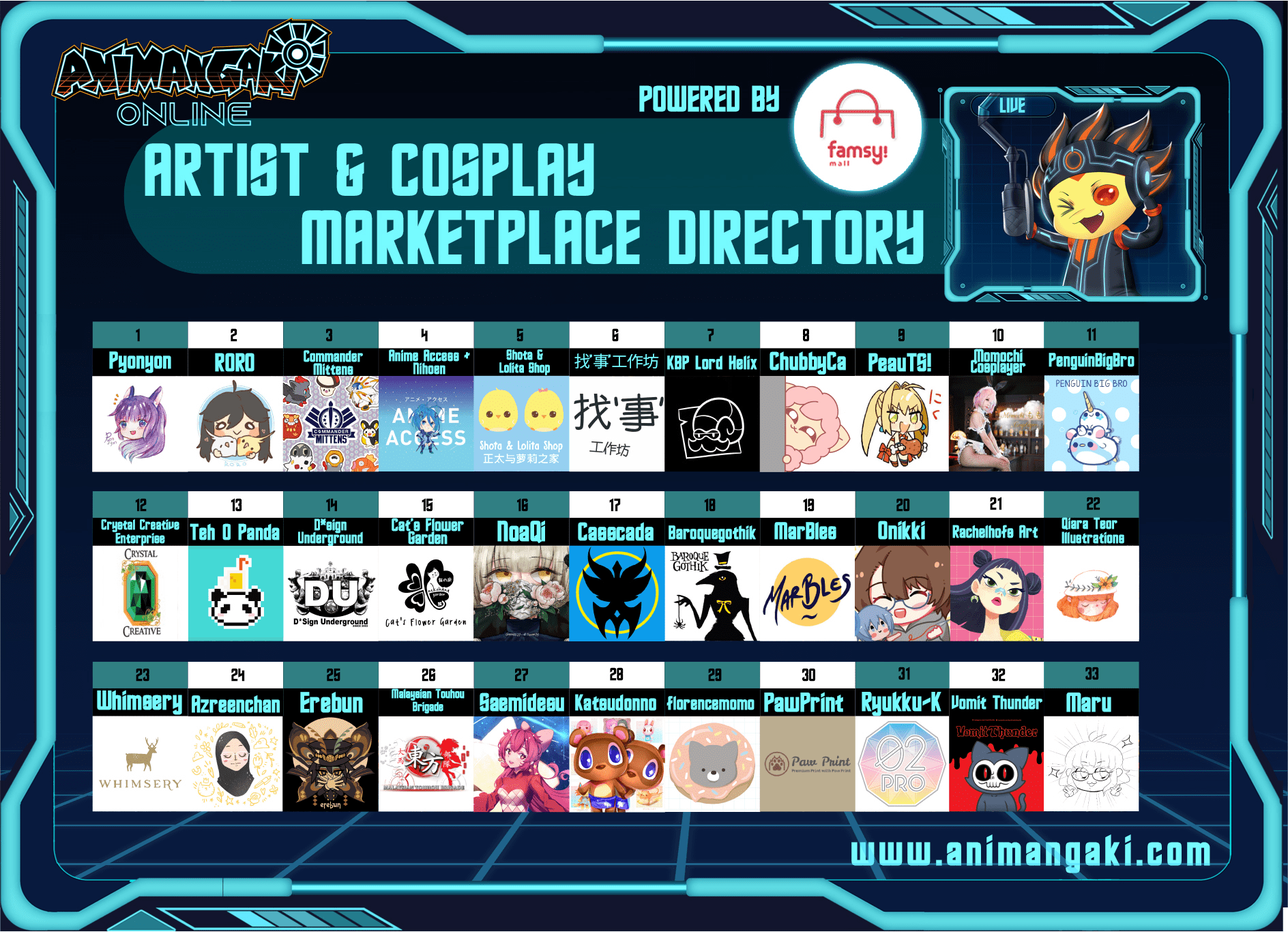
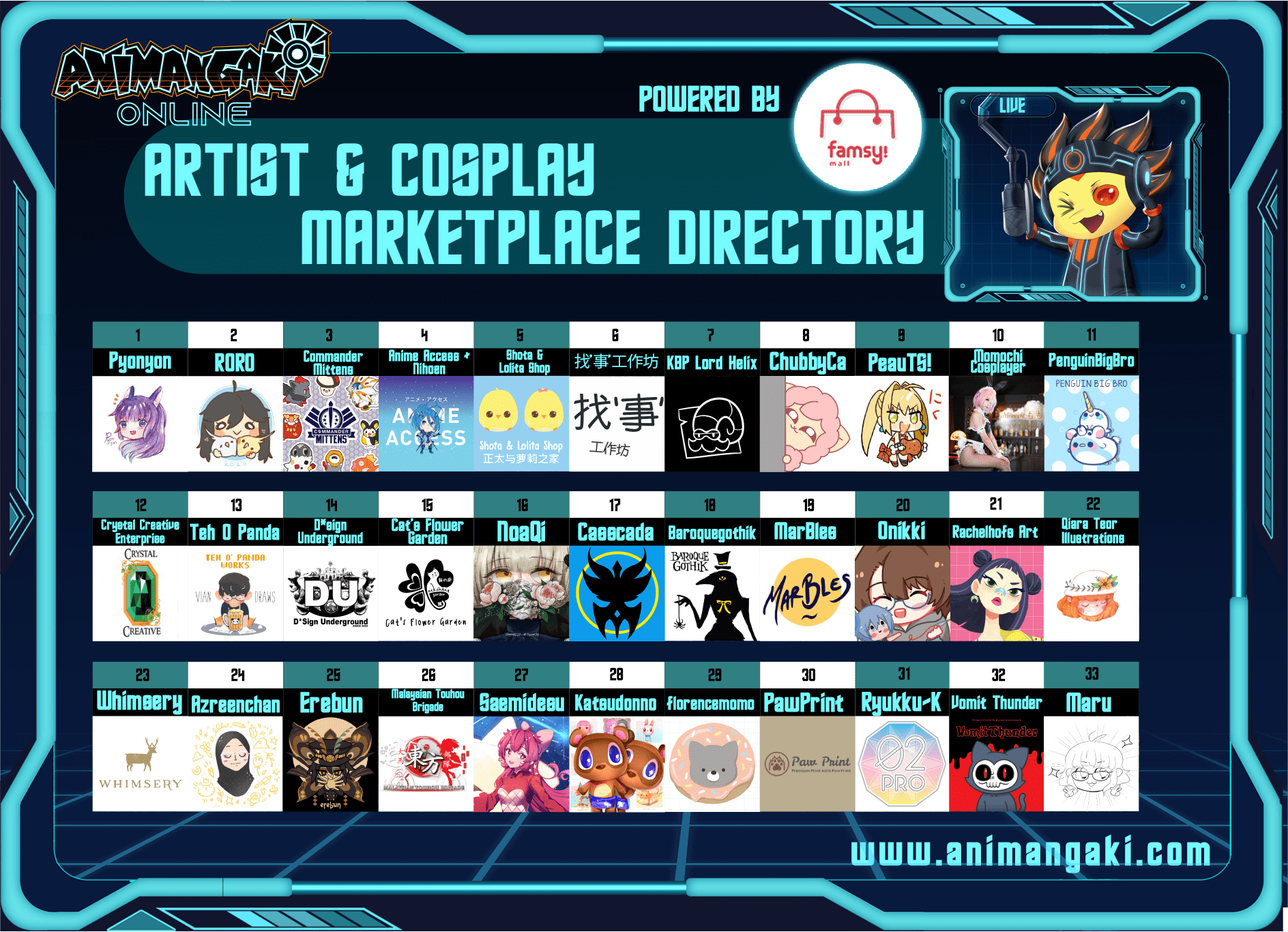
update AMGO2020 (add shop link & update booth changes);

Changed region(s): [[0.125, 0.5842, 0.2188, 0.7072]]

diff --git a/2020/AMGO2020.html b/2020/AMGO2020.html
@@ -362,75 +362,76 @@ setInterval(timer_main_stage, 1000);
 <img src='./AMGO2020/AMGO2020.png' style='width:auto; height:1080px;' onerror="this.src = './AMGO2020/AMGO2020.jpg'">
 <div id='coverbox' onclick='coverbox_click()' style='position: fixed; width: 100%; height: 100%; background-color: black; opacity: 0; top: 0px; left: 0px;'></div>
 <div class='booth' id='1' onclick='link_click(this)'><div class='desc' style='left:221px;top:571px;'><h2>1 Pyonyon</h2><ul>
-<li><a href='http://instagram.com/Pyonyon_' class='ins'></a><a href='http://pyonyon.deviantart.com' class='dar'></a><a href='http://pixiv.me/pyon_pi' class='pxv'></a><a href='http://fb.me/pyonyonyon' class='fbk'></a><a href='http://linktr.ee/pyonyon_' class='lkt'></a></li></ul></div><div class='area' style='display: none'>1 PYONYON</div><div class='box' style='left:114px;top:400px;width:105px;height:169px;'></div>
+<li><a href='http://instagram.com/Pyonyon_' class='ins'></a><a href='http://pyonyon.deviantart.com' class='dar'></a><a href='http://pixiv.me/pyon_pi' class='pxv'></a><a href='http://fb.me/pyonyonyon' class='fbk'></a><a href='http://linktr.ee/pyonyon_' class='lkt'></a></li><li><p><a href="https://www.famsymall.com/collections/all/pyonyon">Famsymall link</a></p></li><li></li></ul></div><div class='area' style='display: none'>1 PYONYON</div><div class='box' style='left:114px;top:400px;width:105px;height:169px;'></div>
 </div><div class='booth' id='2' onclick='link_click(this)'><div class='desc' style='left:332px;top:571px;'><h2>2 RORO</h2><ul>
-<li><a href='http://instagram.com/chutororo' class='ins'></a><a href='https://chutororo.tumblr.com' class='tmb'></a></li></ul></div><div class='area' style='display: none'>2 RORO</div><div class='box' style='left:224px;top:400px;width:106px;height:169px;'></div>
+<li><a href='http://instagram.com/chutororo' class='ins'></a><a href='https://chutororo.tumblr.com' class='tmb'></a></li><li><p><a href="https://www.famsymall.com/collections/all/roro">Famsymall link</a></p></li><li></li></ul></div><div class='area' style='display: none'>2 RORO</div><div class='box' style='left:224px;top:400px;width:106px;height:169px;'></div>
 </div><div class='booth' id='3' onclick='link_click(this)'><div class='desc' style='left:442px;top:571px;'><h2>3 Commander Mittens</h2><ul>
-<li></li><li><a href='https://milvagox.miraheze.org/wiki/Miaow'>Miaow</a></li><li><span class='chevron'>&gt;</span><a href='http://twitter.com/kyoupiruchi' class='twt'></a><a href='http://CommanderMittensCo.etsy.com' class='ets'></a><a href='http://fb.me/commandermitten' class='fbk'></a></li></ul></div><div class='area' style='display: none'>3 COMMANDER MITTENS</div><div class='box' style='left:335px;top:400px;width:105px;height:169px;'></div>
+<li></li><li><a href='https://milvagox.miraheze.org/wiki/Miaow'>Miaow</a></li><li><span class='chevron'>&gt;</span><a href='http://twitter.com/kyoupiruchi' class='twt'></a><a href='http://CommanderMittensCo.etsy.com' class='ets'></a><a href='http://fb.me/commandermitten' class='fbk'></a></li><li><p><a href="https://www.famsymall.com/collections/all/commander-mittens">Famsymall link</a></p></li><li></li></ul></div><div class='area' style='display: none'>3 COMMANDER MITTENS</div><div class='box' style='left:335px;top:400px;width:105px;height:169px;'></div>
 </div><div class='booth' id='4' onclick='link_click(this)'><div class='desc' style='left:553px;top:571px;'><h2>4 Anime Access + Nihoen</h2><ul>
-<li><a href='http://fb.me/animeaccess' class='fbk'></a></li></ul></div><div class='area' style='display: none'>4 ANIME ACCESS + NIHOEN</div><div class='box' style='left:445px;top:400px;width:106px;height:169px;'></div>
+<li><a href='http://fb.me/animeaccess' class='fbk'></a></li><li><p><a href="https://www.famsymall.com/collections/all/anime-access-nihoen">Famsymall link</a></p></li><li></li></ul></div><div class='area' style='display: none'>4 ANIME ACCESS + NIHOEN</div><div class='box' style='left:445px;top:400px;width:106px;height:169px;'></div>
 </div><div class='booth' id='5' onclick='link_click(this)'><div class='desc' style='left:663px;top:571px;'><h2>5 Shota &amp; Lolita Shop</h2><ul>
-<li></li><li><a href='https://milvagox.miraheze.org/wiki/Shota & Lolita Shop'>Shota & Lolita Shop</a></li><li><span class='chevron'>&gt;</span><a href='http://fb.me/shotalolitashop' class='fbk'></a><a href='http://instagram.com/shotaandlolitashop' class='ins'></a></li><li><a href='mailto://shotaandlolitashop@gmail.com'>email: shotaandlolitashop@gmail.com</a></li><li></li></ul></div><div class='area' style='display: none'>5 SHOTA &AMP; LOLITA SHOP</div><div class='box' style='left:556px;top:400px;width:105px;height:169px;'></div>
+<li></li><li><a href='https://milvagox.miraheze.org/wiki/Shota & Lolita Shop'>Shota & Lolita Shop</a></li><li><span class='chevron'>&gt;</span><a href='http://fb.me/shotalolitashop' class='fbk'></a><a href='http://instagram.com/shotaandlolitashop' class='ins'></a></li><li><a href='mailto://shotaandlolitashop@gmail.com'>email: shotaandlolitashop@gmail.com</a></li><li></li><li><p><a href="https://www.famsymall.com/collections/all/shota-&-lolita-shop">Famsymall link</a></p></li><li></li></ul></div><div class='area' style='display: none'>5 SHOTA &AMP; LOLITA SHOP</div><div class='box' style='left:556px;top:400px;width:105px;height:169px;'></div>
 </div><div class='booth' id='6' onclick='link_click(this)'><div class='desc' style='left:774px;top:571px;'><h2>6 找‘事’工作坊</h2><ul>
-<li><a href='http://fb.me/NZuoWDie' class='fbk'></a></li></ul></div><div class='area' style='display: none'>6 找‘事’工作坊</div><div class='box' style='left:666px;top:400px;width:106px;height:169px;'></div>
+<li><a href='http://fb.me/NZuoWDie' class='fbk'></a></li><li><p><a href="https://www.famsymall.com/collections/all/find-trouble-workshop">Famsymall link</a></p></li><li></li></ul></div><div class='area' style='display: none'>6 找‘事’工作坊</div><div class='box' style='left:666px;top:400px;width:106px;height:169px;'></div>
 </div><div class='booth' id='7' onclick='link_click(this)'><div class='desc' style='left:884px;top:571px;'><h2>7 KBP Lord Helix</h2><ul>
-<li><a href='http://fb.me/KBPLordHelix' class='fbk'></a></li></ul></div><div class='area' style='display: none'>7 KBP LORD HELIX</div><div class='box' style='left:777px;top:400px;width:105px;height:169px;'></div>
+<li><a href='http://fb.me/KBPLordHelix' class='fbk'></a></li><li><p><a href="https://www.famsymall.com/collections/all/kbp-lord-helix">Famsymall link</a></p></li><li></li></ul></div><div class='area' style='display: none'>7 KBP LORD HELIX</div><div class='box' style='left:777px;top:400px;width:105px;height:169px;'></div>
 </div><div class='booth' id='8' onclick='link_click(this)'><div class='desc' style='left:995px;top:571px;'><h2>8 ChubbyCa</h2><ul>
 <li><a href='http://instagram.com/6_chubbs' class='ins'></a></li><li><a href='http://stickers.cloud/pack/chubbyca-vol-1'>stickers.cloud/pack/chubbyca-vol-1</a></li><li>
-</li></ul></div><div class='area' style='display: none'>8 CHUBBYCA</div><div class='box' style='left:887px;top:400px;width:106px;height:169px;'></div>
+</li><li><p><a href="https://www.famsymall.com/collections/all/chubbyca">Famsymall link</a></p></li><li></li></ul></div><div class='area' style='display: none'>8 CHUBBYCA</div><div class='box' style='left:887px;top:400px;width:106px;height:169px;'></div>
 </div><div class='booth' id='9' onclick='link_click(this)'><div class='desc' style='left:1105px;top:571px;'><h2>9 PeauTS!</h2><ul>
-<li><a href='http://fb.me/KaiXinxNuts' class='fbk'></a><a href='http://instagram.com/xin.peanuts' class='ins'></a><a href='http://worldcosplay.net/member/XinPeanuts' class='wcp'></a></li></ul></div><div class='area' style='display: none'>9 PEAUTS!</div><div class='box' style='left:998px;top:400px;width:105px;height:169px;'></div>
-</div><div class='booth' id='10' onclick='link_click(this)'><div class='desc' style='left:1216px;top:571px;'><h2>10 Momochi Cosplayer</h2><a href='http://duckduckgo.com/?q=Momochi%20Cosplayer'>Search for Momochi Cosplayer</a></div><div class='area' style='display: none'>10 MOMOCHI COSPLAYER</div><div class='box' style='left:1108px;top:400px;width:106px;height:169px;'></div>
+<li><a href='http://fb.me/KaiXinxNuts' class='fbk'></a><a href='http://instagram.com/xin.peanuts' class='ins'></a><a href='http://worldcosplay.net/member/XinPeanuts' class='wcp'></a></li><li><p><a href="https://www.famsymall.com/collections/all/peauts">Famsymall link</a></p></li><li></li></ul></div><div class='area' style='display: none'>9 PEAUTS!</div><div class='box' style='left:998px;top:400px;width:105px;height:169px;'></div>
+</div><div class='booth' id='10' onclick='link_click(this)'><div class='desc' style='left:1216px;top:571px;'><h2>10 Momochi Cosplayer</h2><ul>
+<li><a href='http://fb.me/Kirarachi' class='fbk'></a></li><li><p><a href="https://www.famsymall.com/collections/all/momochi-cosplayer">Famsymall link</a></p></li><li></li></ul></div><div class='area' style='display: none'>10 MOMOCHI COSPLAYER</div><div class='box' style='left:1108px;top:400px;width:106px;height:169px;'></div>
 </div><div class='booth' id='11' onclick='link_click(this)'><div class='desc' style='left:1326px;top:571px;'><h2>11 PenguinBigBro</h2><ul>
 <li></li><li><a href='https://milvagox.miraheze.org/wiki/PenguinBigBro'>PenguinBigBro</a></li><li><span class='chevron'>&gt;</span><a href='http://twitter.com/PenguinBigBro' class='twt'></a><a href='http://instagram.com/penguinbigbro' class='ins'></a><a href='http://ko-fi.com/penguinbigbro' class='kof'></a><a href='http://etsy.com/shop/PenguinBigBro' class='ets'></a></li><li><a href='http://penguinbigbro.ctcin.bio'>penguinbigbro.ctcin.bio</a></li><li>
-</li></ul></div><div class='area' style='display: none'>11 PENGUINBIGBRO</div><div class='box' style='left:1219px;top:400px;width:105px;height:169px;'></div>
+</li><li><p><a href="https://www.famsymall.com/collections/all/penguinbigbro">Famsymall link</a></p></li><li></li></ul></div><div class='area' style='display: none'>11 PENGUINBIGBRO</div><div class='box' style='left:1219px;top:400px;width:105px;height:169px;'></div>
 </div><div class='booth' id='12' onclick='link_click(this)'><div class='desc' style='left:221px;top:767px;'><h2>12 Crystal Creative Enterprise</h2><ul>
-<li><a href='http://fb.me/crystalcreativeent' class='fbk'></a></li></ul></div><div class='area' style='display: none'>12 CRYSTAL CREATIVE ENTERPRISE</div><div class='box' style='left:114px;top:596px;width:105px;height:169px;'></div>
-</div><div class='booth' id='13' onclick='link_click(this)'><div class='desc' style='left:332px;top:767px;'><h2>13 Teh O Panda</h2><ul>
-<li><a href='http://instagram.com/tehopandaworks' class='ins'></a></li></ul></div><div class='area' style='display: none'>13 TEH O PANDA</div><div class='box' style='left:224px;top:596px;width:106px;height:169px;'></div>
+<li><a href='http://fb.me/crystalcreativeent' class='fbk'></a></li><li><p><a href="https://www.famsymall.com/collections/all/Crystal-Creative-Enterprise">Famsymall link</a></p></li><li></li></ul></div><div class='area' style='display: none'>12 CRYSTAL CREATIVE ENTERPRISE</div><div class='box' style='left:114px;top:596px;width:105px;height:169px;'></div>
+</div><div class='booth' id='13' onclick='link_click(this)'><div class='desc' style='left:332px;top:767px;'><h2>13 Teh O&#39; Panda Works x VianDraws</h2><ul>
+<li></li><li>Teh O' Panda</li><li><span class='chevron'>&gt;</span><a href='http://fb.me/tehopandaworks' class='fbk'></a><a href='http://instagram.com/tehopandaworks' class='ins'></a></li><li>VianDraws</li><li><span class='chevron'>&gt;</span><a href='http://twitter.com/Viandrawsstuff' class='twt'></a><a href='http://instagram.com/viannnndraws' class='ins'></a></li><li><p><a href="https://www.famsymall.com/collections/all/teh-o'-panda-works-x-viandraws">Famsymall link</a></p></li><li></li></ul></div><div class='area' style='display: none'>13 TEH O&#39; PANDA WORKS X VIANDRAWS</div><div class='box' style='left:224px;top:596px;width:106px;height:169px;'></div>
 </div><div class='booth' id='14' onclick='link_click(this)'><div class='desc' style='left:442px;top:767px;'><h2>14 D*sign Underground</h2><ul>
-<li><a href='http://fb.me/dsignunderground' class='fbk'></a></li></ul></div><div class='area' style='display: none'>14 D*SIGN UNDERGROUND</div><div class='box' style='left:335px;top:596px;width:105px;height:169px;'></div>
+<li><a href='http://fb.me/dsignunderground' class='fbk'></a></li><li><p><a href="https://www.famsymall.com/collections/all/D*sign-Underground">Famsymall link</a></p></li><li></li></ul></div><div class='area' style='display: none'>14 D*SIGN UNDERGROUND</div><div class='box' style='left:335px;top:596px;width:105px;height:169px;'></div>
 </div><div class='booth' id='15' onclick='link_click(this)'><div class='desc' style='left:553px;top:767px;'><h2>15 Cat&#39;s Flower Garden</h2><ul>
-<li><a href='http://fb.me/catsflowergarden' class='fbk'></a></li></ul></div><div class='area' style='display: none'>15 CAT&#39;S FLOWER GARDEN</div><div class='box' style='left:445px;top:596px;width:106px;height:169px;'></div>
+<li><a href='http://fb.me/catsflowergarden' class='fbk'></a></li><li><p><a href="https://www.famsymall.com/collections/all/Cat's-Flower-Garden">Famsymall link</a></p></li><li></li></ul></div><div class='area' style='display: none'>15 CAT&#39;S FLOWER GARDEN</div><div class='box' style='left:445px;top:596px;width:106px;height:169px;'></div>
 </div><div class='booth' id='16' onclick='link_click(this)'><div class='desc' style='left:663px;top:767px;'><h2>16 NoaQi</h2><ul>
-<li><a href='http://instagram.com/noaqi77' class='ins'></a></li></ul></div><div class='area' style='display: none'>16 NOAQI</div><div class='box' style='left:556px;top:596px;width:105px;height:169px;'></div>
+<li><a href='http://instagram.com/noaqi77' class='ins'></a></li><li><p><a href="https://www.famsymall.com/collections/all/NoaQi">Famsymall link</a></p></li><li></li></ul></div><div class='area' style='display: none'>16 NOAQI</div><div class='box' style='left:556px;top:596px;width:105px;height:169px;'></div>
 </div><div class='booth' id='17' onclick='link_click(this)'><div class='desc' style='left:774px;top:767px;'><h2>17 Casscada</h2><ul>
-<li><a href='https://kisetsukaze.tumblr.com' class='tmb'></a><a href='http://fb.me/ArtOfKisetsukaze' class='fbk'></a></li></ul></div><div class='area' style='display: none'>17 CASSCADA</div><div class='box' style='left:666px;top:596px;width:106px;height:169px;'></div>
+<li><a href='https://kisetsukaze.tumblr.com' class='tmb'></a><a href='http://fb.me/ArtOfKisetsukaze' class='fbk'></a></li><li><p><a href="https://www.famsymall.com/collections/all/Casscada">Famsymall link</a></p></li><li></li></ul></div><div class='area' style='display: none'>17 CASSCADA</div><div class='box' style='left:666px;top:596px;width:106px;height:169px;'></div>
 </div><div class='booth' id='18' onclick='link_click(this)'><div class='desc' style='left:884px;top:767px;'><h2>18 Baroquegothik</h2><ul>
-<li><a href='http://twitter.com/baroquegothik' class='twt'></a><a href='https://baroquegothik.tumblr.com' class='tmb'></a><a href='http://fb.me/baroquegothik' class='fbk'></a><a href='http://instagram.com/baroquegothik' class='ins'></a><a href='http://redbubble.com/people/baroquegothik' class='rbb'></a><a href='http://inprnt.com/gallery/baroquegothik' class='inp'></a></li></ul></div><div class='area' style='display: none'>18 BAROQUEGOTHIK</div><div class='box' style='left:777px;top:596px;width:105px;height:169px;'></div>
+<li><a href='http://twitter.com/baroquegothik' class='twt'></a><a href='https://baroquegothik.tumblr.com' class='tmb'></a><a href='http://fb.me/baroquegothik' class='fbk'></a><a href='http://instagram.com/baroquegothik' class='ins'></a><a href='http://redbubble.com/people/baroquegothik' class='rbb'></a><a href='http://inprnt.com/gallery/baroquegothik' class='inp'></a></li><li><p><a href="https://www.famsymall.com/collections/all/Baroquegothik">Famsymall link</a></p></li><li></li></ul></div><div class='area' style='display: none'>18 BAROQUEGOTHIK</div><div class='box' style='left:777px;top:596px;width:105px;height:169px;'></div>
 </div><div class='booth' id='19' onclick='link_click(this)'><div class='desc' style='left:995px;top:767px;'><h2>19 MarBles</h2><ul>
-<li></li><li>Marini4</li><li><span class='chevron'>&gt;</span><a href='http://instagram.com/marini4art' class='ins'></a><a href='http://marini4.deviantart.com' class='dar'></a><a href='https://bendybeforeinkmachine.tumblr.com' class='tmb'></a><a href='http://marini4.carrd.co' class='crd'></a><a href='http://etsy.com/shop/Marini4Art' class='ets'></a><a href='http://webtoons.com/en/challenge/bendy-before-the-ink-machine/list?title_no=188451' class='wtn'></a><a href='http://youtube.com/channel/UCZ3zoo9E-SWxq6dprtMerWg' class='ytb'></a><a href='http://patreon.com/marini4' class='ptr'></a><a href='http://linktr.ee/Marini4' class='lkt'></a></li><li>Zabbles</li><li><span class='chevron'>&gt;</span><a href='http://twitter.com/zabbles_art' class='twt'></a><a href='http://instagram.com/zabbles.art' class='ins'></a><a href='http://zee-zyp.deviantart.com' class='dar'></a><a href='https://zabblesart.tumblr.com' class='tmb'></a><a href='http://ko-fi.com/zabblesart' class='kof'></a><a href='http://pinterest.com/zabblesrefs' class='pts'></a><a href='http://fb.me/zabbles.art' class='fbk'></a><a href='http://linktr.ee/zabbles.art' class='lkt'></a></li></ul></div><div class='area' style='display: none'>19 MARBLES</div><div class='box' style='left:887px;top:596px;width:106px;height:169px;'></div>
+<li></li><li>Marini4</li><li><span class='chevron'>&gt;</span><a href='http://instagram.com/marini4art' class='ins'></a><a href='http://marini4.deviantart.com' class='dar'></a><a href='https://bendybeforeinkmachine.tumblr.com' class='tmb'></a><a href='http://marini4.carrd.co' class='crd'></a><a href='http://etsy.com/shop/Marini4Art' class='ets'></a><a href='http://webtoons.com/en/challenge/bendy-before-the-ink-machine/list?title_no=188451' class='wtn'></a><a href='http://youtube.com/channel/UCZ3zoo9E-SWxq6dprtMerWg' class='ytb'></a><a href='http://patreon.com/marini4' class='ptr'></a><a href='http://linktr.ee/Marini4' class='lkt'></a></li><li>Zabbles</li><li><span class='chevron'>&gt;</span><a href='http://twitter.com/zabbles_art' class='twt'></a><a href='http://instagram.com/zabbles.art' class='ins'></a><a href='http://zee-zyp.deviantart.com' class='dar'></a><a href='https://zabblesart.tumblr.com' class='tmb'></a><a href='http://ko-fi.com/zabblesart' class='kof'></a><a href='http://pinterest.com/zabblesrefs' class='pts'></a><a href='http://fb.me/zabbles.art' class='fbk'></a><a href='http://linktr.ee/zabbles.art' class='lkt'></a></li><li><p><a href="https://www.famsymall.com/collections/all/MarBles">Famsymall link</a></p></li><li></li></ul></div><div class='area' style='display: none'>19 MARBLES</div><div class='box' style='left:887px;top:596px;width:106px;height:169px;'></div>
 </div><div class='booth' id='20' onclick='link_click(this)'><div class='desc' style='left:1105px;top:767px;'><h2>20 onikki</h2><ul>
-<li></li><li>tyraryu.doll</li><li><span class='chevron'>&gt;</span><a href='http://instagram.com/TYRARYU.DOLL' class='ins'></a><a href='http://fb.me/tyraryu.doll' class='fbk'></a></li><li>rakugaqis</li><li><span class='chevron'>&gt;</span><a href='http://twitter.com/rakugaqis' class='twt'></a><a href='http://instagram.com/rakugaqis' class='ins'></a><a href='https://rakugaqis.tumblr.com' class='tmb'></a><a href='http://ko-fi.com/rakugaqis' class='kof'></a><a href='http://fb.me/rakugaqis' class='fbk'></a><a href='http://astralost.carrd.co' class='crd'></a></li><li>oishiicafe</li><li><span class='chevron'>&gt;</span></li></ul></div><div class='area' style='display: none'>20 ONIKKI</div><div class='box' style='left:998px;top:596px;width:105px;height:169px;'></div>
+<li></li><li>tyraryu.doll</li><li><span class='chevron'>&gt;</span><a href='http://instagram.com/TYRARYU.DOLL' class='ins'></a><a href='http://fb.me/tyraryu.doll' class='fbk'></a></li><li>rakugaqis</li><li><span class='chevron'>&gt;</span><a href='http://twitter.com/rakugaqis' class='twt'></a><a href='http://instagram.com/rakugaqis' class='ins'></a><a href='https://rakugaqis.tumblr.com' class='tmb'></a><a href='http://ko-fi.com/rakugaqis' class='kof'></a><a href='http://fb.me/rakugaqis' class='fbk'></a><a href='http://astralost.carrd.co' class='crd'></a></li><li>oishiicafe</li><li><span class='chevron'>&gt;</span></li><li><p><a href="https://www.famsymall.com/collections/all/onikki">Famsymall link</a></p></li><li></li></ul></div><div class='area' style='display: none'>20 ONIKKI</div><div class='box' style='left:998px;top:596px;width:105px;height:169px;'></div>
 </div><div class='booth' id='21' onclick='link_click(this)'><div class='desc' style='left:1216px;top:767px;'><h2>21 Rachelhofs Art</h2><ul>
-<li><a href='http://twitter.com/rachelhofs' class='twt'></a><a href='http://instagram.com/rachelhofs' class='ins'></a><a href='http://behance.net/rachelhofs' class='bhc'></a><a href='http://artstation.com/rachelhofs' class='ast'></a></li></ul></div><div class='area' style='display: none'>21 RACHELHOFS ART</div><div class='box' style='left:1108px;top:596px;width:106px;height:169px;'></div>
+<li><a href='http://twitter.com/rachelhofs' class='twt'></a><a href='http://instagram.com/rachelhofs' class='ins'></a><a href='http://behance.net/rachelhofs' class='bhc'></a><a href='http://artstation.com/rachelhofs' class='ast'></a></li><li><p><a href="https://www.famsymall.com/collections/all/Rachelhofs-Art">Famsymall link</a></p></li><li></li></ul></div><div class='area' style='display: none'>21 RACHELHOFS ART</div><div class='box' style='left:1108px;top:596px;width:106px;height:169px;'></div>
 </div><div class='booth' id='22' onclick='link_click(this)'><div class='desc' style='left:1326px;top:767px;'><h2>22 Qiara Teor Illustrations</h2><ul>
-<li></li><li><a href='https://milvagox.miraheze.org/wiki/Qiara Teor'>Qiara Teor</a></li><li><span class='chevron'>&gt;</span><a href='http://fb.me/qiarateor' class='fbk'></a><a href='http://instagram.com/qiarateor' class='ins'></a><a href='http://twitter.com/Qiara_T' class='twt'></a></li></ul></div><div class='area' style='display: none'>22 QIARA TEOR ILLUSTRATIONS</div><div class='box' style='left:1219px;top:596px;width:105px;height:169px;'></div>
+<li></li><li><a href='https://milvagox.miraheze.org/wiki/Qiara Teor'>Qiara Teor</a></li><li><span class='chevron'>&gt;</span><a href='http://fb.me/qiarateor' class='fbk'></a><a href='http://instagram.com/qiarateor' class='ins'></a><a href='http://twitter.com/Qiara_T' class='twt'></a></li><li><p><a href="https://www.famsymall.com/collections/all/Qiara-Teor-Illustrations">Famsymall link</a></p></li><li></li></ul></div><div class='area' style='display: none'>22 QIARA TEOR ILLUSTRATIONS</div><div class='box' style='left:1219px;top:596px;width:105px;height:169px;'></div>
 </div><div class='booth' id='23' onclick='link_click(this)'><div class='desc' style='left:221px;top:965px;'><h2>23 Whimsery</h2><ul>
-<li></li><li><a href='https://milvagox.miraheze.org/wiki/Whimsery'>Whimsery</a></li><li><span class='chevron'>&gt;</span><a href='http://instagram.com/Whimsery.Shop' class='ins'></a><a href='http://fb.me/whimsery' class='fbk'></a><a href='http://whimsery.etsy.com' class='ets'></a></li></ul></div><div class='area' style='display: none'>23 WHIMSERY</div><div class='box' style='left:114px;top:794px;width:105px;height:169px;'></div>
+<li></li><li><a href='https://milvagox.miraheze.org/wiki/Whimsery'>Whimsery</a></li><li><span class='chevron'>&gt;</span><a href='http://instagram.com/Whimsery.Shop' class='ins'></a><a href='http://fb.me/whimsery' class='fbk'></a><a href='http://whimsery.etsy.com' class='ets'></a></li><li><p><a href="https://www.famsymall.com/collections/all/Whimsery">Famsymall link</a></p></li><li></li></ul></div><div class='area' style='display: none'>23 WHIMSERY</div><div class='box' style='left:114px;top:794px;width:105px;height:169px;'></div>
 </div><div class='booth' id='24' onclick='link_click(this)'><div class='desc' style='left:332px;top:965px;'><h2>24 Azreenchan</h2><ul>
-<li><a href='http://instagram.com/azreenchan' class='ins'></a><a href='http://azreenchan.easy.co' class='esc'></a><a href='http://behance.net/azreenchan' class='bhc'></a><a href='http://doodle-from-me.blogspot.com' class='bsp'></a></li></ul></div><div class='area' style='display: none'>24 AZREENCHAN</div><div class='box' style='left:224px;top:794px;width:106px;height:169px;'></div>
+<li><a href='http://instagram.com/azreenchan' class='ins'></a><a href='http://azreenchan.easy.co' class='esc'></a><a href='http://behance.net/azreenchan' class='bhc'></a><a href='http://doodle-from-me.blogspot.com' class='bsp'></a></li><li><p><a href="https://www.famsymall.com/collections/all/Azreenchan">Famsymall link</a></p></li><li></li></ul></div><div class='area' style='display: none'>24 AZREENCHAN</div><div class='box' style='left:224px;top:794px;width:106px;height:169px;'></div>
 </div><div class='booth' id='25' onclick='link_click(this)'><div class='desc' style='left:442px;top:965px;'><h2>25 Erebun</h2><ul>
-<li><a href='http://erebun.deviantart.com' class='dar'></a><a href='http://twitter.com/erebun11' class='twt'></a><a href='http://facebook.com/erebun' class='fbk'></a><a href='http://erebun.etsy.com' class='ets'></a></li></ul></div><div class='area' style='display: none'>25 EREBUN</div><div class='box' style='left:335px;top:794px;width:105px;height:169px;'></div>
-</div><div class='booth' id='26' onclick='link_click(this)'><div class='desc' style='left:553px;top:965px;'><h2>26 Malaysia Touhou Brigade</h2><ul>
+<li><a href='http://erebun.deviantart.com' class='dar'></a><a href='http://twitter.com/erebun11' class='twt'></a><a href='http://facebook.com/erebun' class='fbk'></a><a href='http://erebun.etsy.com' class='ets'></a></li><li><p><a href="https://www.famsymall.com/collections/all/Erebun">Famsymall link</a></p></li><li></li></ul></div><div class='area' style='display: none'>25 EREBUN</div><div class='box' style='left:335px;top:794px;width:105px;height:169px;'></div>
+</div><div class='booth' id='26' onclick='link_click(this)'><div class='desc' style='left:553px;top:965px;'><h2>26 Malaysian Touhou Brigade</h2><ul>
 <li><a href='http://fb.me/MalaysianTouhouBrigade' class='fbk'></a></li><li><a href='http://mtb.herokuapp.com'>mtb.herokuapp.com</a></li><li>
-</li></ul></div><div class='area' style='display: none'>26 MALAYSIA TOUHOU BRIGADE</div><div class='box' style='left:445px;top:794px;width:106px;height:169px;'></div>
+</li><li><p><a href="https://www.famsymall.com/collections/all/Malaysian-Touhou-Brigade">Famsymall link</a></p></li><li></li></ul></div><div class='area' style='display: none'>26 MALAYSIAN TOUHOU BRIGADE</div><div class='box' style='left:445px;top:794px;width:106px;height:169px;'></div>
 </div><div class='booth' id='27' onclick='link_click(this)'><div class='desc' style='left:663px;top:965px;'><h2>27 Saemidesu</h2><ul>
-<li><a href='http://instagram.com/saemidesu' class='ins'></a><a href='http://pixiv.net/en/users/26650302' class='pxv'></a><a href='http://saemidesu.deviantart.com' class='dar'></a><a href='https://saemidesu.tumblr.com' class='tmb'></a><a href='http://fb.me/Saemidesu' class='fbk'></a><a href='http://ko-fi.com/saemidesu' class='kof'></a><a href='http://linktr.ee/saemidesu' class='lkt'></a><a href='http://reddit.com/user/saemidesunya' class='rdt'></a></li></ul></div><div class='area' style='display: none'>27 SAEMIDESU</div><div class='box' style='left:556px;top:794px;width:105px;height:169px;'></div>
+<li><a href='http://instagram.com/saemidesu' class='ins'></a><a href='http://pixiv.net/en/users/26650302' class='pxv'></a><a href='http://saemidesu.deviantart.com' class='dar'></a><a href='https://saemidesu.tumblr.com' class='tmb'></a><a href='http://fb.me/Saemidesu' class='fbk'></a><a href='http://ko-fi.com/saemidesu' class='kof'></a><a href='http://linktr.ee/saemidesu' class='lkt'></a><a href='http://reddit.com/user/saemidesunya' class='rdt'></a></li><li><p><a href="https://www.famsymall.com/collections/all/Saemidesu">Famsymall link</a></p></li><li></li></ul></div><div class='area' style='display: none'>27 SAEMIDESU</div><div class='box' style='left:556px;top:794px;width:105px;height:169px;'></div>
 </div><div class='booth' id='28' onclick='link_click(this)'><div class='desc' style='left:774px;top:965px;'><h2>28 Katsudonno</h2><ul>
 <li><a href='http://twitter.com/katsudonno' class='twt'></a><a href='http://instagram.com/katsudonno' class='ins'></a><a href='https://katsudonno.tumblr.com' class='tmb'></a><a href='http://fb.me/katsudonno' class='fbk'></a><a href='http://linktr.ee/katsudonno' class='lkt'></a></li><li><a href='http://buymeacoffee.com/IcGbMxR'>buymeacoffee.com/IcGbMxR</a></li><li>
-</li></ul></div><div class='area' style='display: none'>28 KATSUDONNO</div><div class='box' style='left:666px;top:794px;width:106px;height:169px;'></div>
+</li><li><p><a href="https://www.famsymall.com/collections/all/Katsudonno">Famsymall link</a></p></li><li></li></ul></div><div class='area' style='display: none'>28 KATSUDONNO</div><div class='box' style='left:666px;top:794px;width:106px;height:169px;'></div>
 </div><div class='booth' id='29' onclick='link_click(this)'><div class='desc' style='left:884px;top:965px;'><h2>29 florencemomo</h2><ul>
-<li></li><li><a href='https://milvagox.miraheze.org/wiki/Florence Momo'>Florence Momo</a></li><li><span class='chevron'>&gt;</span><a href='http://twitter.com/florencemomo' class='twt'></a><a href='http://instagram.com/florencemomo' class='ins'></a><a href='https://florencemomo.tumblr.com' class='tmb'></a><a href='http://pixiv.me/peach90' class='pxv'></a></li></ul></div><div class='area' style='display: none'>29 FLORENCEMOMO</div><div class='box' style='left:777px;top:794px;width:105px;height:169px;'></div>
+<li></li><li><a href='https://milvagox.miraheze.org/wiki/Florence Momo'>Florence Momo</a></li><li><span class='chevron'>&gt;</span><a href='http://twitter.com/florencemomo' class='twt'></a><a href='http://instagram.com/florencemomo' class='ins'></a><a href='https://florencemomo.tumblr.com' class='tmb'></a><a href='http://pixiv.me/peach90' class='pxv'></a></li><li><p><a href="https://www.famsymall.com/collections/all/florencemomo">Famsymall link</a></p></li><li></li></ul></div><div class='area' style='display: none'>29 FLORENCEMOMO</div><div class='box' style='left:777px;top:794px;width:105px;height:169px;'></div>
 </div><div class='booth' id='30' onclick='link_click(this)'><div class='desc' style='left:995px;top:965px;'><h2>30 PawPrint</h2><ul>
-<li><a href='http://fb.me/chromaxfirst' class='fbk'></a></li></ul></div><div class='area' style='display: none'>30 PAWPRINT</div><div class='box' style='left:887px;top:794px;width:106px;height:169px;'></div>
+<li><a href='http://fb.me/chromaxfirst' class='fbk'></a></li><li><p><a href="https://www.famsymall.com/collections/all/pawprint">Famsymall link</a></p></li><li></li></ul></div><div class='area' style='display: none'>30 PAWPRINT</div><div class='box' style='left:887px;top:794px;width:106px;height:169px;'></div>
 </div><div class='booth' id='31' onclick='link_click(this)'><div class='desc' style='left:1105px;top:965px;'><h2>31 Ryukku-K</h2><ul>
-<li></li><li><a href='https://milvagox.miraheze.org/wiki/Ryukku-K'>Ryukku-K</a></li><li><span class='chevron'>&gt;</span><a href='http://twitter.com/ryukku_k' class='twt'></a><a href='http://instagram.com/ryukku_k' class='ins'></a><a href='http://fb.me/ryukku.k' class='fbk'></a></li></ul></div><div class='area' style='display: none'>31 RYUKKU-K</div><div class='box' style='left:998px;top:794px;width:105px;height:169px;'></div>
+<li></li><li><a href='https://milvagox.miraheze.org/wiki/Ryukku-K'>Ryukku-K</a></li><li><span class='chevron'>&gt;</span><a href='http://twitter.com/ryukku_k' class='twt'></a><a href='http://instagram.com/ryukku_k' class='ins'></a><a href='http://fb.me/ryukku.k' class='fbk'></a></li><li><p><a href="https://www.famsymall.com/collections/all/Ryukku-K">Famsymall link</a></p></li><li></li></ul></div><div class='area' style='display: none'>31 RYUKKU-K</div><div class='box' style='left:998px;top:794px;width:105px;height:169px;'></div>
 </div><div class='booth' id='32' onclick='link_click(this)'><div class='desc' style='left:1216px;top:965px;'><h2>32 Vomit Thunder</h2><ul>
-<li><a href='https://carousell.com/vomit_thunder' class='crs'></a><a href='http://instagram.com/vomitthunder' class='ins'></a><a href='http://fb.me/artofvomitthunder' class='fbk'></a></li></ul></div><div class='area' style='display: none'>32 VOMIT THUNDER</div><div class='box' style='left:1108px;top:794px;width:106px;height:169px;'></div>
+<li><a href='https://carousell.com/vomit_thunder' class='crs'></a><a href='http://instagram.com/vomitthunder' class='ins'></a><a href='http://fb.me/artofvomitthunder' class='fbk'></a></li><li><p><a href="https://www.famsymall.com/collections/all/Vomit-Thunder">Famsymall link</a></p></li><li></li></ul></div><div class='area' style='display: none'>32 VOMIT THUNDER</div><div class='box' style='left:1108px;top:794px;width:106px;height:169px;'></div>
 </div><div class='booth' id='33' onclick='link_click(this)'><div class='desc' style='left:1326px;top:965px;'><h2>33 Maru</h2><ul>
 <li><a href='http://twitter.com/marudotcool' class='twt'></a><a href='http://instagram.com/marudotcool' class='ins'></a><a href='http://ko-fi.com/marudotcool' class='kof'></a><a href='https://marupocalypse.tumblr.com' class='tmb'></a><a href='http://fb.me/marudotcool' class='fbk'></a><a href='http://linktr.ee/marudotcool' class='lkt'></a></li><li><a href='http://marudotcool.itch.io'>marudotcool.itch.io</a></li><li>
-</li></ul></div><div class='area' style='display: none'>33 MARU</div><div class='box' style='left:1219px;top:794px;width:105px;height:169px;'></div>
+</li><li><p><a href="https://www.famsymall.com/collections/all/maru">Famsymall link</a></p></li><li></li></ul></div><div class='area' style='display: none'>33 MARU</div><div class='box' style='left:1219px;top:794px;width:105px;height:169px;'></div>
 </div>
 </div></body></html>
 <!--Written and compiled by MilvagoX.-->

diff --git a/index.html b/index.html
@@ -61,7 +61,7 @@
 <a href='booths.html'>Collective booths list</a>
 <a href='https://milvagox.miraheze.org/wiki/Main_Page'>Booths Wiki page</a>
 <h1>2020</h1><ul>
- <li>21 Aug - 23 Aug: <progress max='33' value='32' ></progress> <a href='2020/AMGO2020.html'>AMGO2020</a></li>
+ <li>21 Aug - 23 Aug: <progress max='33' value='33' style='background:salmon;'></progress> <a href='2020/AMGO2020.html'>AMGO2020</a></li>
  <li>03 Jul &amp; 04 Jul: <progress max='15' value='15' style='background:salmon;'></progress> <a href='2020/kurocon.html'>Kurocon</a></li>
  <li>01 Feb &amp; 02 Feb: <progress max='60' value='53' ></progress> <a href='2020/S4O2020.html'>S4O2020</a></li>
  <li>on 04 Jan only!: <progress max='62' value='43' ></progress> <a href='2020/arata2020.html'>arata2020</a></li>
@@ -145,4 +145,4 @@
 <p>Please provide information and contact <a href='mailto:milvagox@pm.me'>here</a>.</p>
 </div>
 </div></body></html>
-<!--Written by MilvagoX. Updated: 2020-08-18 06:35:03 UTC-->
+<!--Written by MilvagoX. Updated: 2020-08-20 17:08:28 UTC-->
